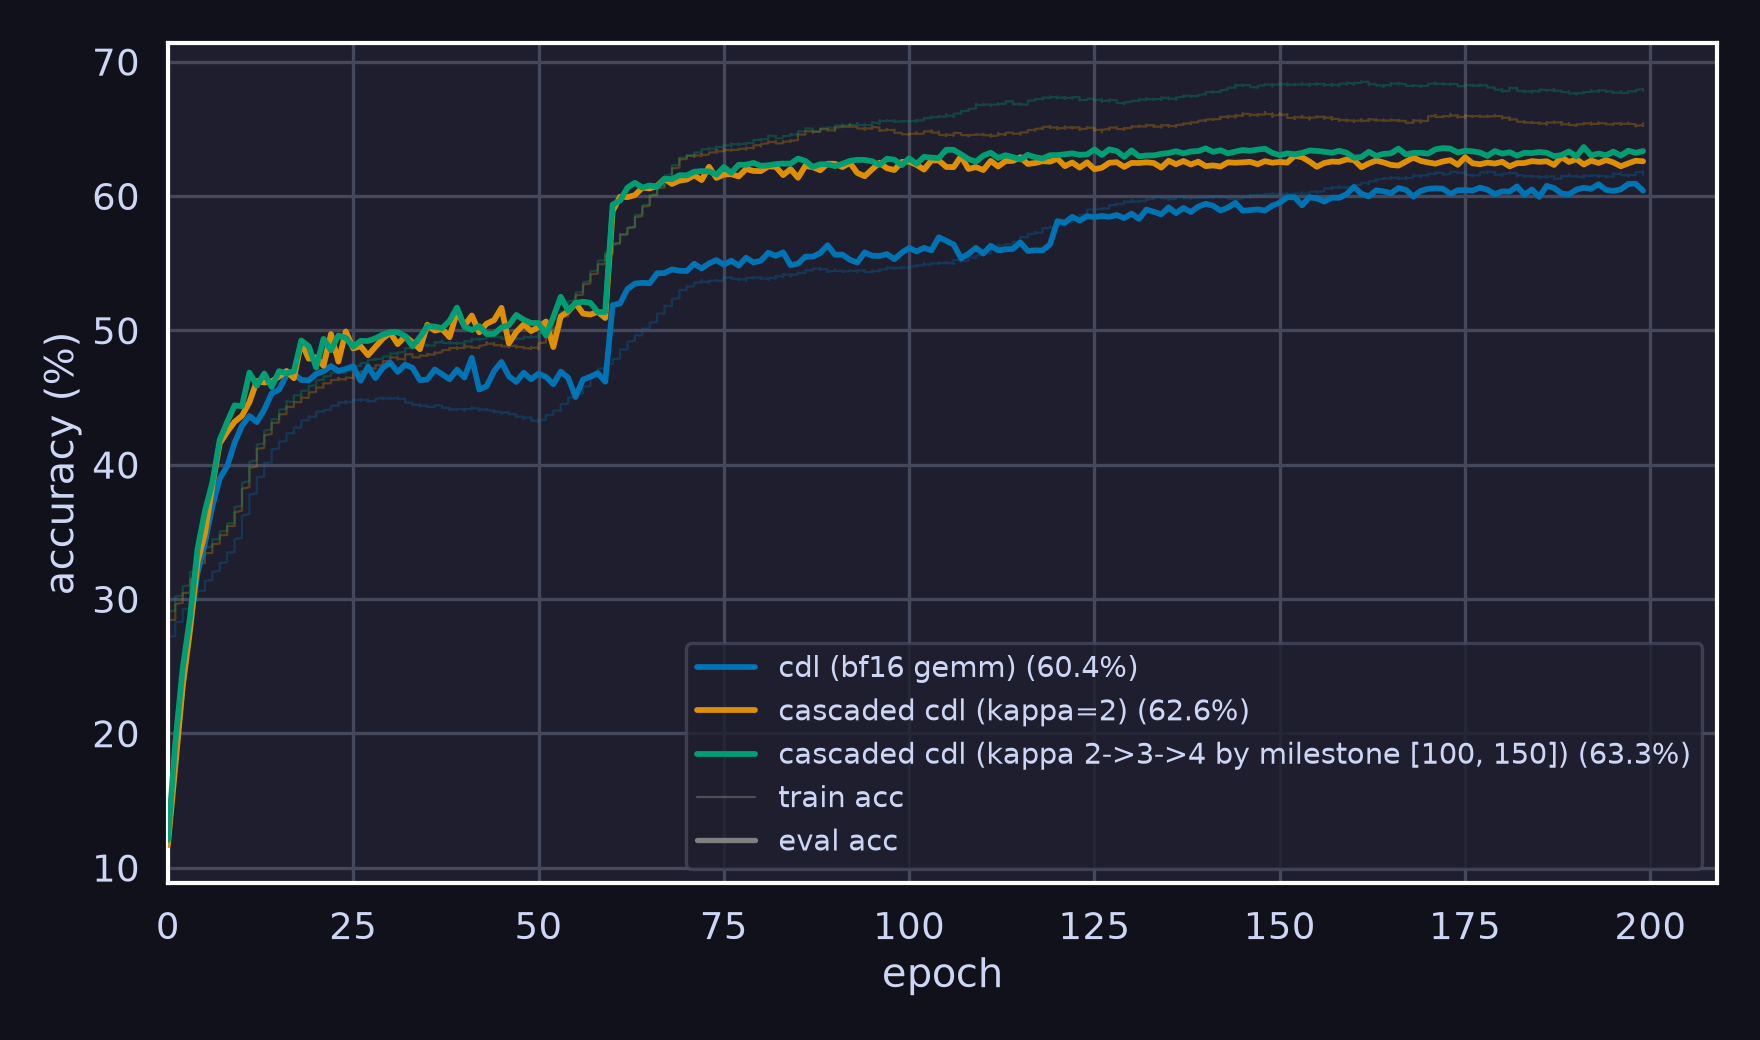
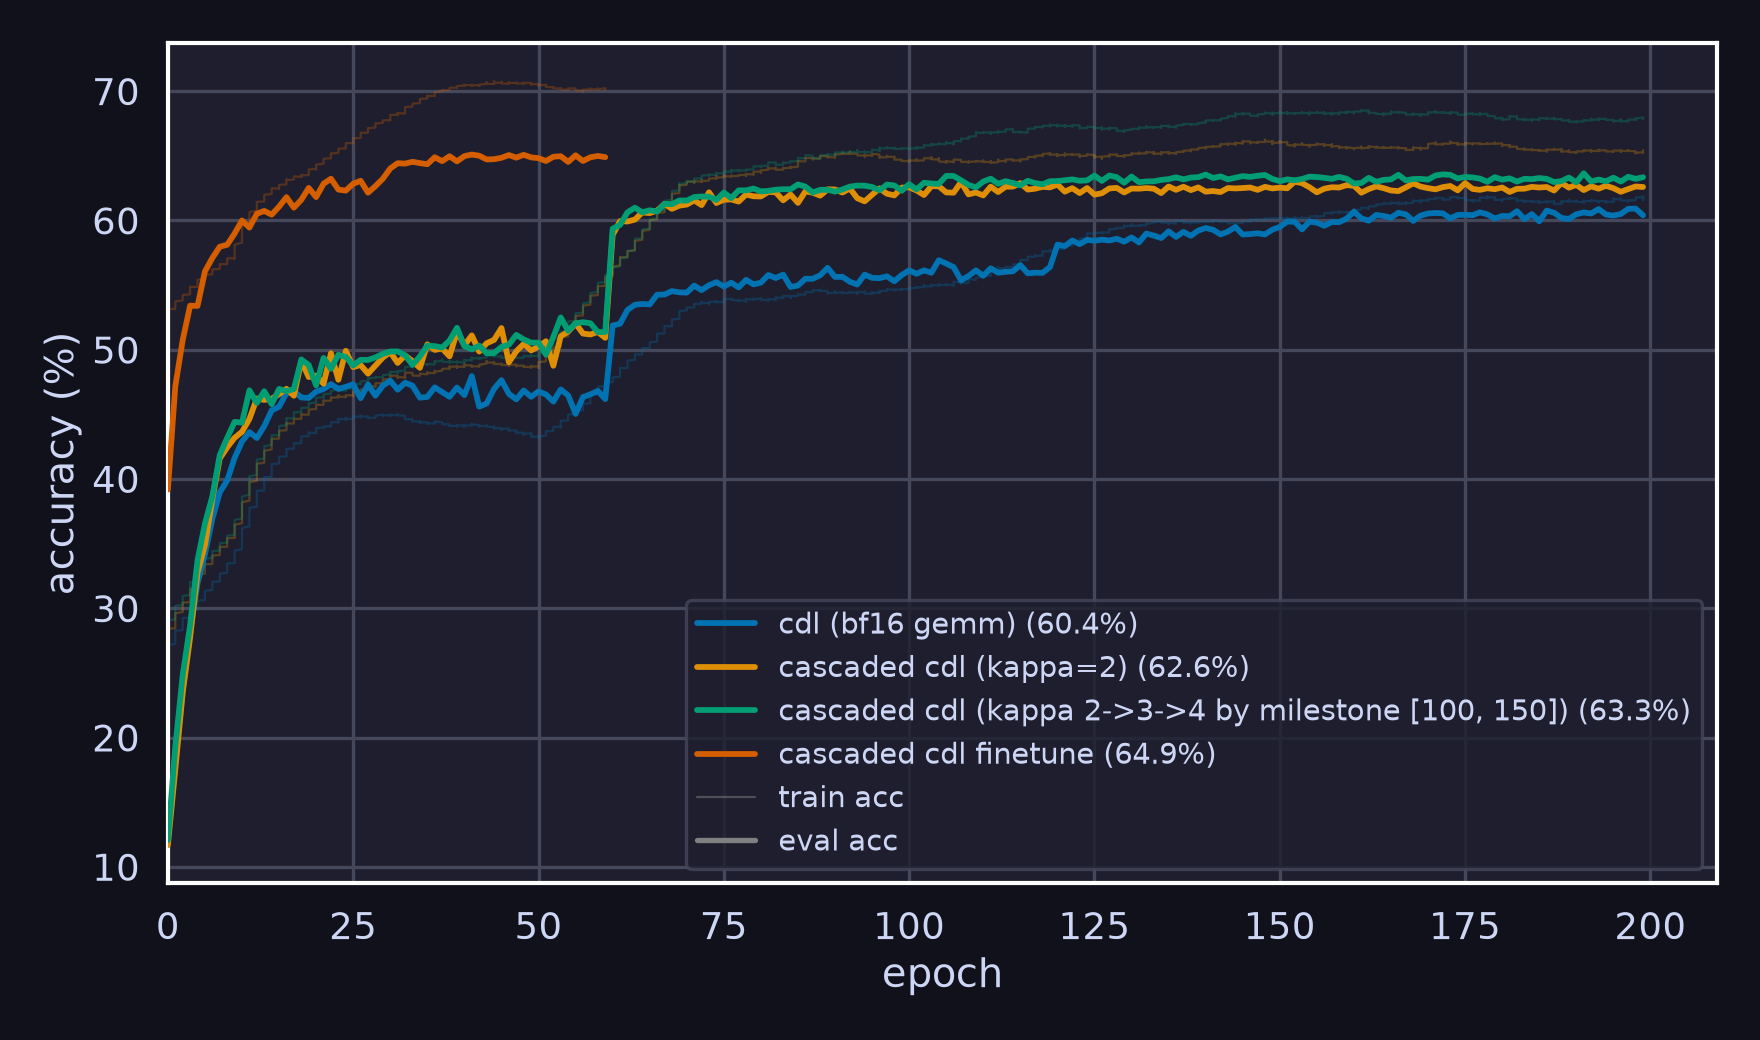
patch

diff --git a/2026-10-30.md b/2026-10-30.md
@@ -52,12 +52,26 @@ Last time, I mentioned that vanilla CDL is not sufficient for low-precision trai
 
 ![](assets/2026-10-30/cascade-is-necessary.png)
 
-However, it does not beat the direct post-training NVFP4-quantized model at 65.3%, and it is not even comparable to activation-aware quantization (WAQ), which can achieve 65.5%, nor to Hessian-based error-compensation quantization (GPTQ) at 66.1%. All evaluated end-to-end through the real NVFP4 GEMM. According to LLM's PTQ implementation.
+However, it does not beat the direct post-training NVFP4-quantized model at 65.3%, and it is not even comparable to activation-aware quantization (AWQ), which can achieve 65.5%, nor to Hessian-based error-compensation quantization (GPTQ) at 66.1%. All evaluated end-to-end through the real NVFP4 GEMM. According to LLM's PTQ implementation.
 
 ### Notations
 
 The original formula $`[P_\alpha(\cdot|\theta)] = \sigma(-\alpha \cdot ([\theta]_{2^b} - \hat{\mathcal{A}})^2)`$ used a sharpness factor in the value domain and initialized that factor to $`500`$ for both activation and weight quantizers. This is equivalent to $`[P_\alpha(\cdot|\theta)] = \sigma(-\kappa \cdot ([\frac{\theta}{q}]_{2^b} - \mathcal{A})^2)`$, where $`\kappa = \alpha q^2`$. Instead of training $`\alpha`$, we train $`\kappa`$, which is the sharpness factor in the index domain. This naturally applies to the indices after companding. For this experiment, $`\kappa`$ is excluded from training.
 
-## Next Step: Transformer
+## MXFP8 vs. NVFP4 vs. MXFP4
+
+The ranking is as expected.
+
+![](assets/2026-10-30/nvfp4-mxfp4-mxfp8.png)
+
+It's very likely that the MXFP series could perform better if the format were extended with a global scaler. The `flashinfer` backend does have one for MXFP4, and its last-checkpoint evaluation accuracy is 61.4%, an almost 4-point improvement over the original MXFP4.
+
+As for the baseline comparison, the standard STE-proxy accuracy is 64.8% for NVFP4, 38.4% for MXFP4, and 65.0% for MXFP8. The main reason all of these low-bit formats fall short of full precision is that the implicit-GEMM requirement significantly reduces the number of learnable block scalers for activations.
+
+I skipped this part last time because I knew we would move to Transformers later. However, to conclude the CNN results, a thorough explanation is still necessary.
+
+> The same activation value appears in multiple `im2col` rows, so it can receive different quantization codes or scales depending on its patch and output position. Therefore, all `N * OH * OW` rows must share the same scaling factor. In the previously described layout, the tensor is reshaped to `[N * OH * OW, C * Kh * Kw / 16, 16]`, which corresponds to a scale factor of shape `[1, C * Kh * Kw / 16, 1]`.
+
+## Next Move: Transformers
 
 We can test our method for pretraining and fine-tuning. The [nanochat](https://github.com/karpathy/nanochat) (~561M) by Andrej Karpathy is a modern implementation of GPT-2; it takes 3 hours of training on 8×H100 at a cost of around $100. Fine-tuning would use LoRA on LLaMA-7B, as presented in the paper. However, native NVFP4 GEMM requires Blackwell (sm100+), and as far as I know, none of the Digital Research Alliance of Canada (DRAC) have them.
